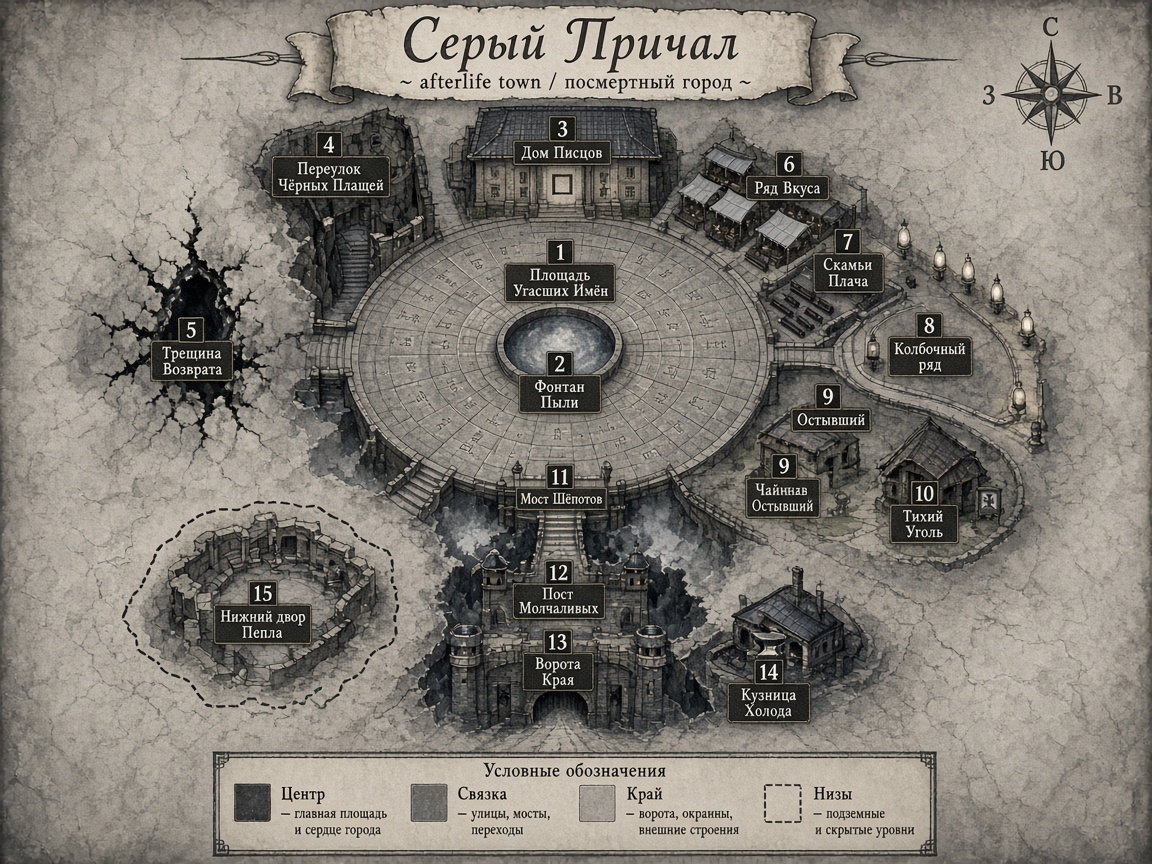
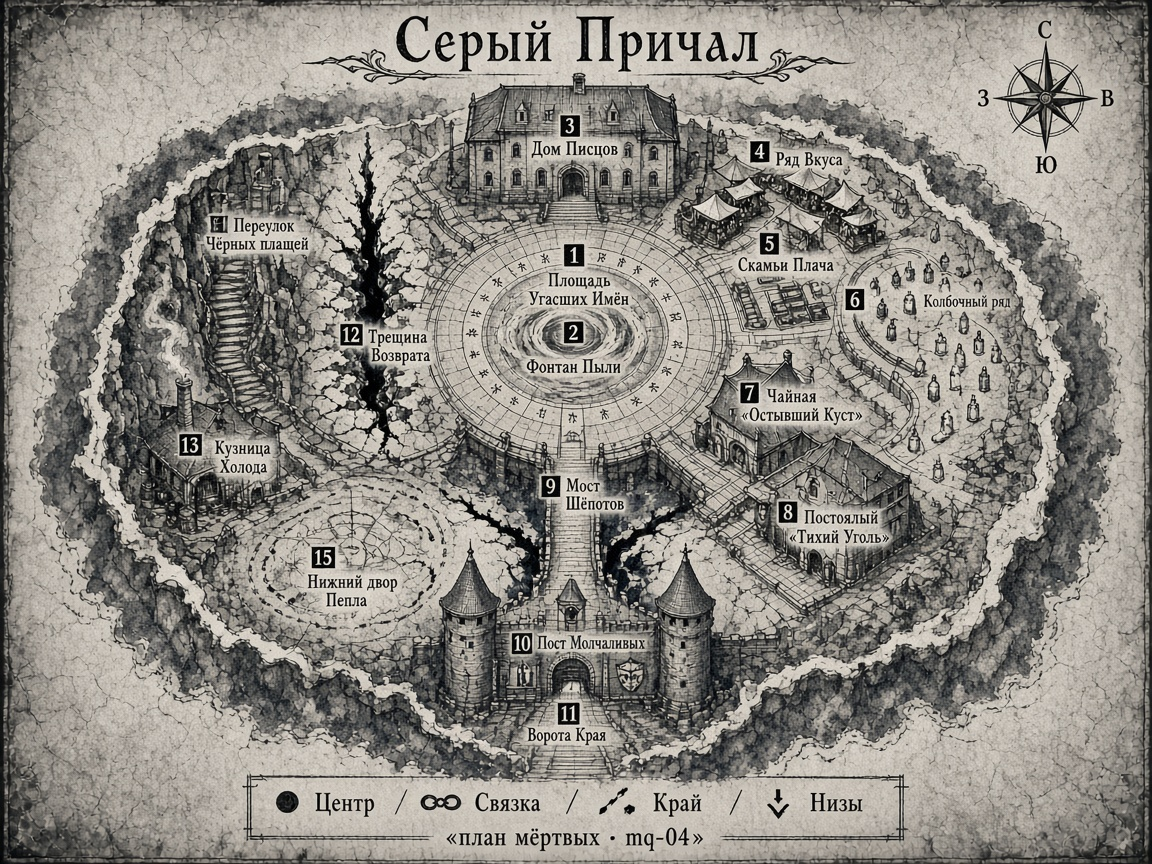
Link Gray Quay map in playbook README and maps index

diff --git a/campaign/prep/locations/seryy-prichal/map.md b/campaign/prep/locations/seryy-prichal/map.md
@@ -1,0 +1,36 @@
+---
+title: "Серый Причал — карта"
+slug: seryy-prichal
+status: prep
+source: gm-request-2026-09-22
+---
+
+# Карта Серого Причала
+
+![Серый Причал](map.png)
+
+Файлы:
+- в playbook-папке: [`map.png`](map.png)
+- архив карт: [`../../../../assets/maps/seryy-prichal/seryy-prichal-map.png`](../../../../assets/maps/seryy-prichal/seryy-prichal-map.png)
+
+## Легенда номеров (= playbook)
+
+| # | Место | Зона |
+|---:|---|---|
+| 1 | Площадь Угасших Имён | Центр |
+| 2 | Фонтан Пыли | Центр |
+| 3 | Дом Писцов | Центр (север) |
+| 4 | Ряд Вкуса | Центр (восток) |
+| 5 | Скамьи Плача | Центр (восток) |
+| 6 | Колбочный ряд | Центр (восток) |
+| 7 | Чайная «Остывший Куст» | Центр |
+| 8 | Постоялый «Тихий Уголь» | Центр |
+| 9 | Мост Шёпотов | Связка (юг) |
+| 10 | Пост Молчаливых | Связка |
+| 11 | Ворота Края | Край (юг) |
+| 12 | Трещина Возврата | вход / запад площади |
+| 13 | Кузница Холода | Край |
+| 14 | Переулок Чёрных плащей | Низы (запад) |
+| 15 | Нижний двор Пепла | Низы (под площадью) |
+
+Ориентиры для стола: **север** = Писцы · **юг** = Край · **запад** = Трещина/Плащи · **восток** = вкус/плач/колбы.

diff --git a/campaign/prep/locations/seryy-prichal/playbook.md b/campaign/prep/locations/seryy-prichal/playbook.md
@@ -4,7 +4,8 @@ slug: seryy-prichal
 status: prep
 scale: city-small
 region: план мёртвых (за Разломом Лунного моста)
-map_ref: campaign/prep/arcs/arc-3/quests/mq-04-seryy-prichal.md
+map_ref: campaign/prep/locations/seryy-prichal/map.png
+map_doc: campaign/prep/locations/seryy-prichal/map.md
 rules: dnd-5e-2014
 tags: [location, playbook, arc3, mq-04, plane-of-dead]
 attitude_axes:
@@ -19,6 +20,7 @@ sites_count: 15
 # Серый Причал — playbook
 
 > Prep для стола → `playbook.docx`. Небольшой город загробной жизни.  
+> **Карта:** [`map.png`](map.png) · легенда [`map.md`](map.md)  
 > Вход: чёрный поток Купели (mq-04). Канон: [`../../../plot/canon-lock-2026-09-22-mq04-dead-plane-be.md`](../../../plot/canon-lock-2026-09-22-mq04-dead-plane-be.md).
 
 ## Паспорт

diff --git a/assets/maps/README.md b/assets/maps/README.md
@@ -7,3 +7,4 @@ title: Карты
 - [Карта мира](world-map-echo-dawn.jpg) — [`world/locations/world-map.md`](../../world/locations/world-map.md)
 - [Карта Аэлендора](aelendor-map.jpg) — [`world/locations/aelendor-map.md`](../../world/locations/aelendor-map.md)
 - [Карта Лунных Пиков](lunnye-piki-map.jpg) — [`world/locations/lunnye-piki-map.md`](../../world/locations/lunnye-piki-map.md)
+- [Серый Причал (план мёртвых)](seryy-prichal/seryy-prichal-map.png) — playbook [`campaign/prep/locations/seryy-prichal/`](../../campaign/prep/locations/seryy-prichal/)

diff --git a/campaign/prep/locations/seryy-prichal/README.md b/campaign/prep/locations/seryy-prichal/README.md
@@ -19,6 +19,7 @@ status: prep
 - [`playbook.md`](playbook.md) — ведение  
 - [`playbook.docx`](playbook.docx) — Google Doc  
 - [`npc-registry.md`](npc-registry.md) — имена  
+- [`map.png`](map.png) / [`map.md`](map.md) — **карта города** (15 точек)  
 
 ## Связь
 
